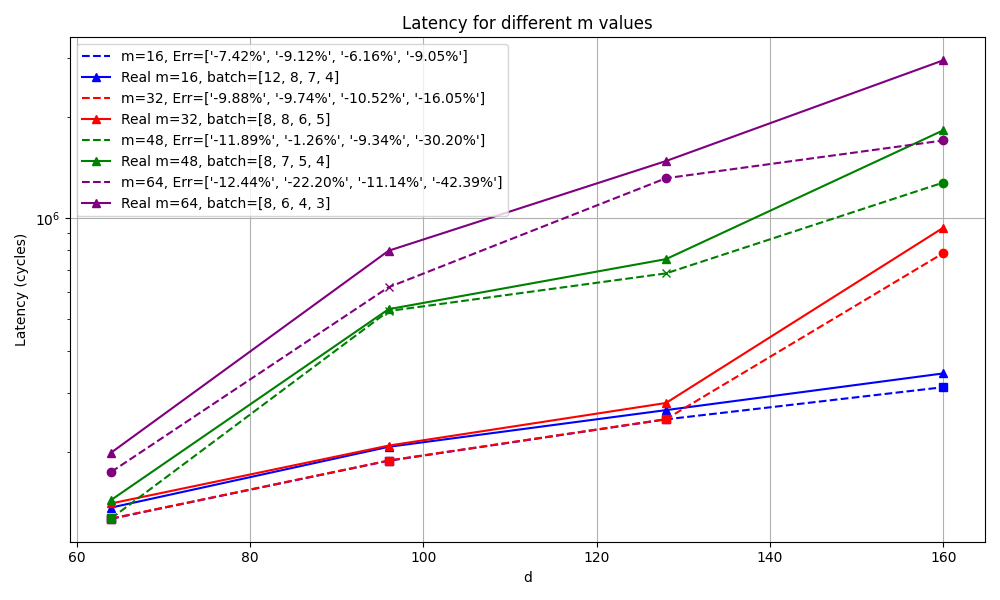
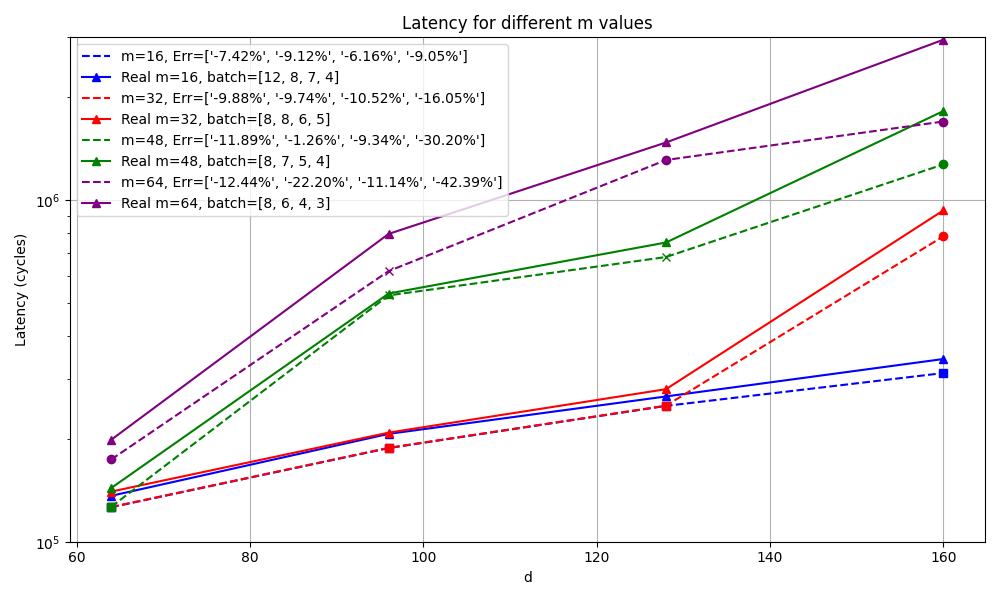
Set lim

Changed region(s): [[0.093, 0.06, 0.961, 0.87], [0.031, 0.33, 0.062, 0.39], [0.031, 0.9, 0.062, 0.93]]

diff --git a/kernels/test_05_05_08_33/plot_scripts/plot_best_spill_simulated.py b/kernels/test_05_05_08_33/plot_scripts/plot_best_spill_simulated.py
@@ -71,7 +71,7 @@ for sub_id, outer_value in enumerate(outer_list):
         plt.plot(inner_value, latency_list[inner_id], color=colors[sub_id], marker=markers[latency_type])
     plt.plot(inner_list, real_latency_list, color=colors[sub_id], linestyle='-', marker='^', label=f"Real {mode}={outer_value}, batch={batch_list}")    
 
-
+plt.ylim(1e5, 3e6)
 plt.yscale('log')
 if mode == "d":
     plt.xlabel("m")

diff --git a/kernels/test_05_05_13_28/plot_scripts/plot_best_spill_simulated.py b/kernels/test_05_05_13_28/plot_scripts/plot_best_spill_simulated.py
@@ -71,7 +71,7 @@ for sub_id, outer_value in enumerate(outer_list):
         plt.plot(inner_value, latency_list[inner_id], color=colors[sub_id], marker=markers[latency_type])
     plt.plot(inner_list, real_latency_list, color=colors[sub_id], linestyle='-', marker='^', label=f"Real {mode}={outer_value}, batch={batch_list}")    
 
-
+plt.ylim(1e5, 3e6)
 plt.yscale('log')
 if mode == "d":
     plt.xlabel("m")
